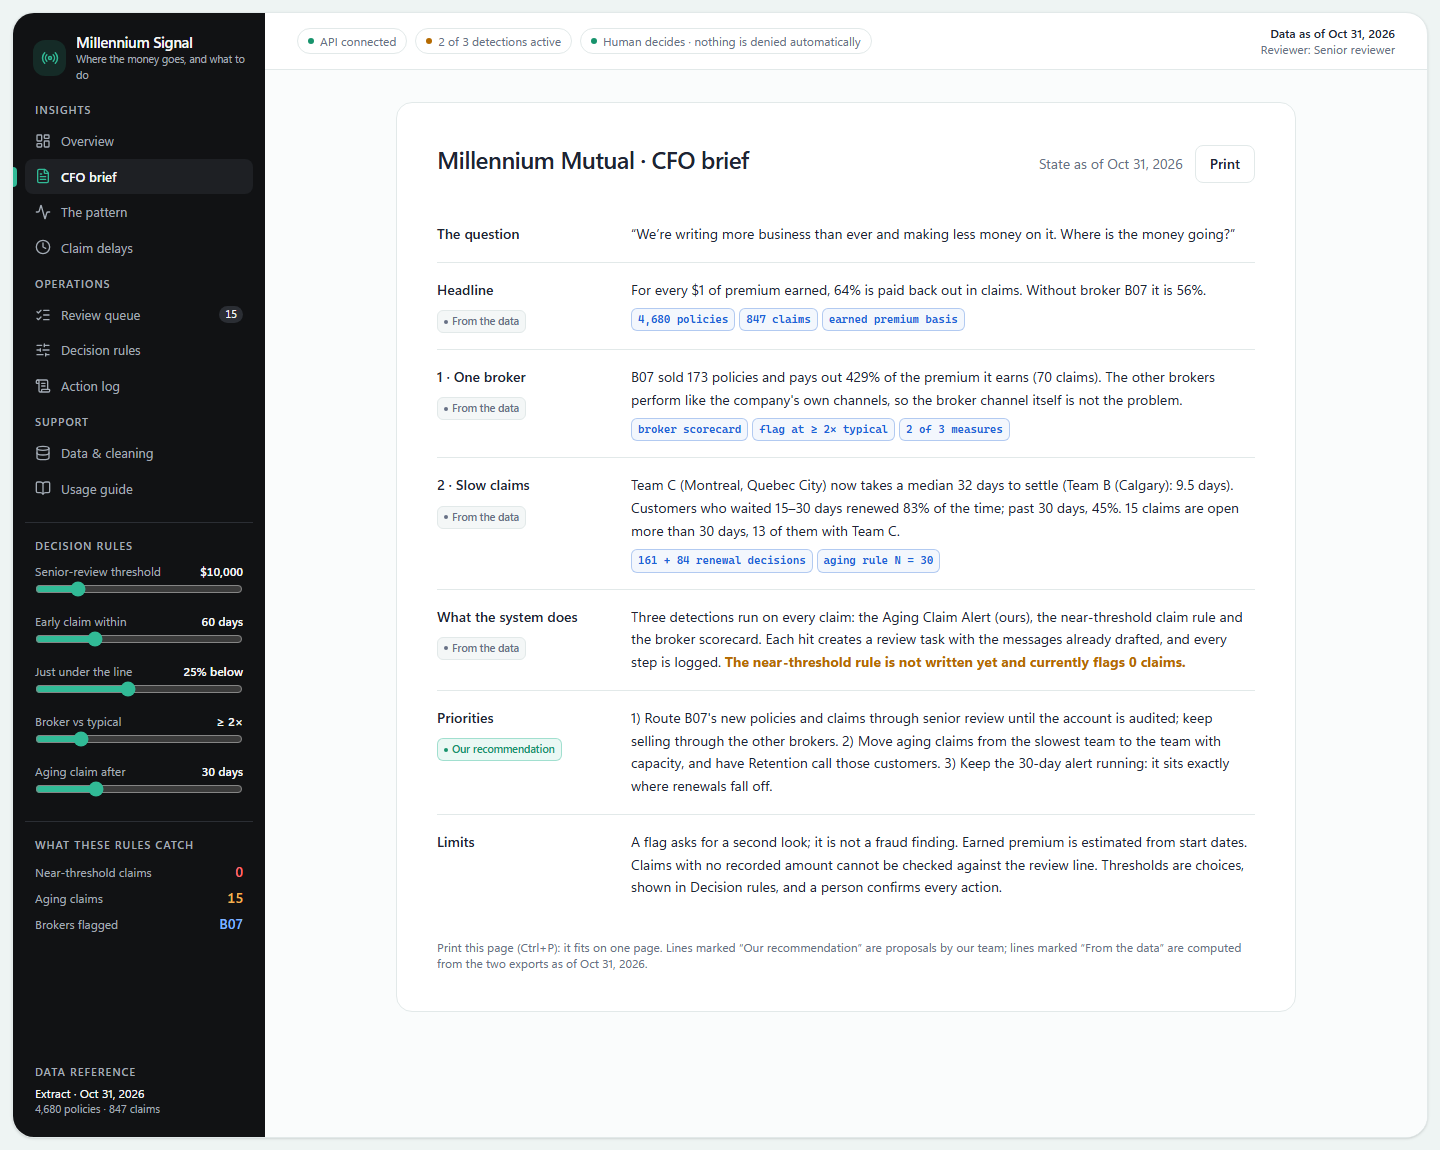
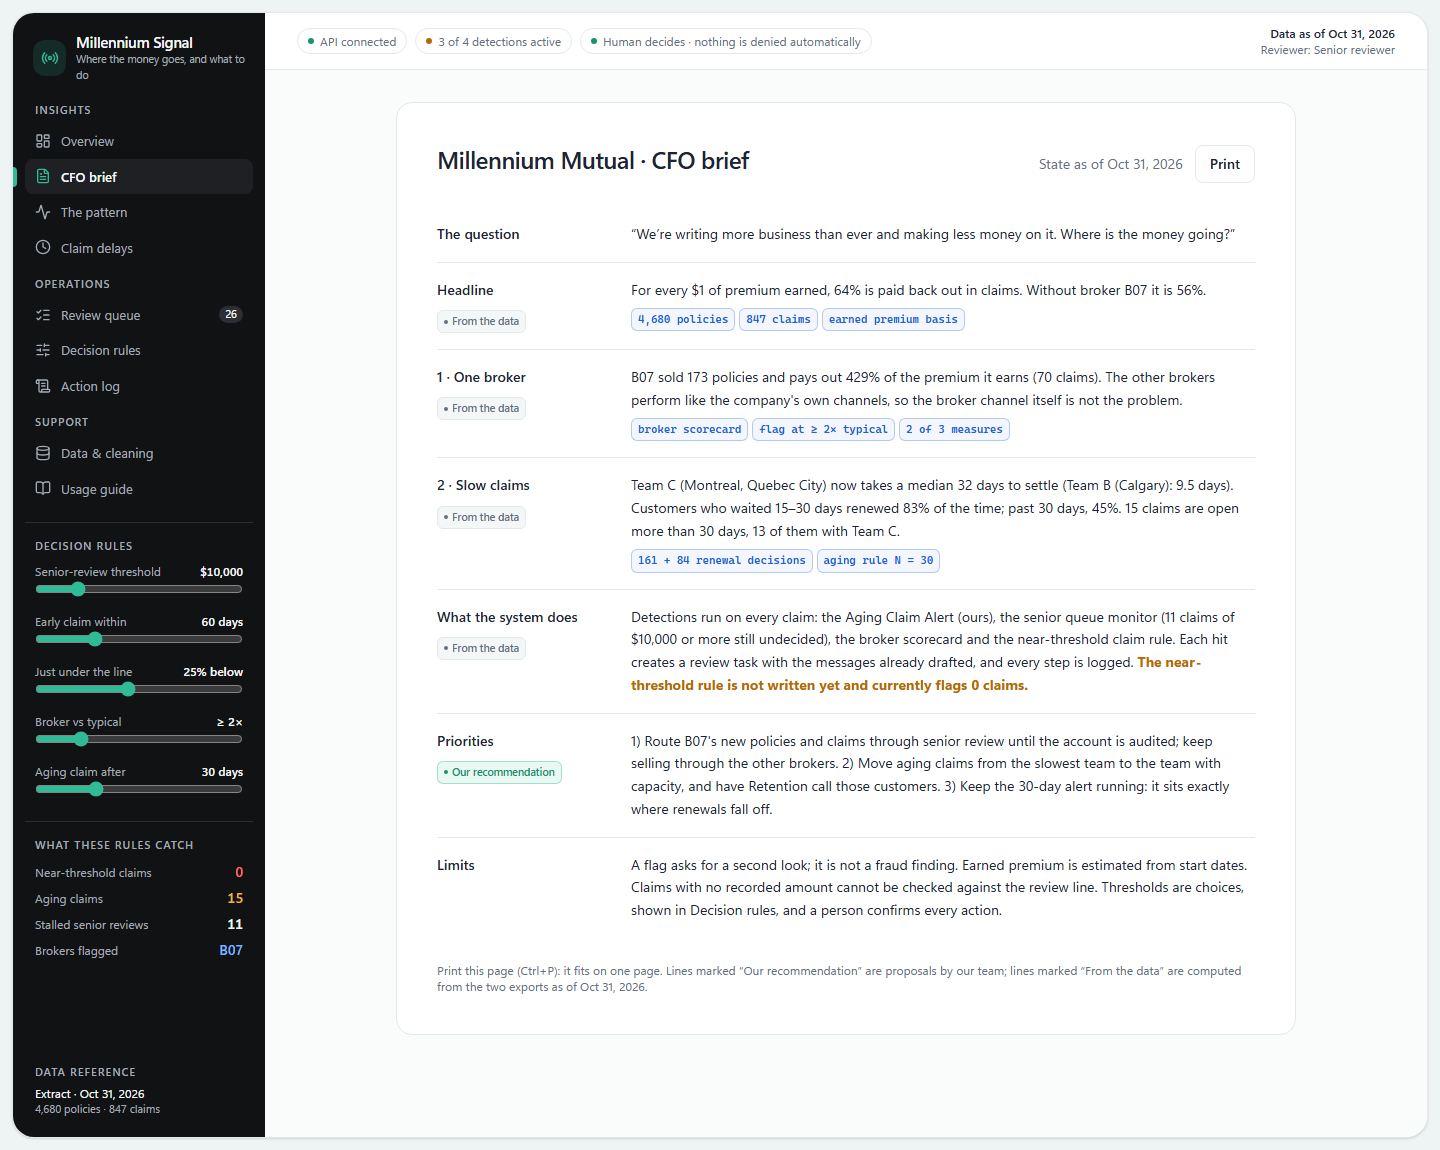
Add senior queue monitor from Wanlin's pipeline; list open conflicts
New detect.senior_queue_stalled (claims >= $10,000 still undecided), queue
tasks with priority, prepared message, log lines. Teammate added to README
and Devpost draft. Conflicts between the two analyses listed in DECISIONS.md.

diff --git a/web/app/queue/page.tsx b/web/app/queue/page.tsx
@@ -8,7 +8,8 @@ import { api, money, useApi, useStore } from "@/lib/store";
 
 type Task = {
   task_id: string;
-  kind: "near_threshold" | "aging";
+  kind: "near_threshold" | "aging" | "senior";
+  priority: "Critical" | "High";
   badge: string;
   claim_id: string;
   policy_id: string;
@@ -32,7 +33,7 @@ type Task = {
 type Queue = {
   tasks: Task[];
   broker_alerts: { task_id: string; broker: string; body: string; decision: string }[];
-  counts: { waiting: number; near_threshold: number; aging: number; decided: number };
+  counts: { waiting: number; near_threshold: number; aging: number; senior: number; critical: number; decided: number };
   intake: {
     policies: { policy_id: string; source: string; start_date: string }[];
     default_policy: string;
@@ -55,6 +56,7 @@ const FILTERS = [
   { key: "all", label: "All" },
   { key: "near_threshold", label: "Near threshold" },
   { key: "aging", label: "Aging claim" },
+  { key: "senior", label: "Senior queue" },
 ] as const;
 
 export default function QueuePage() {
@@ -77,7 +79,7 @@ export default function QueuePage() {
     setMsg(null);
     try {
       await api("/api/decision", { method: "POST", body: JSON.stringify({ task_id, decision, note }) });
-      setMsg(`Recorded “${decision}” for ${task_id.replace(/^(AGING|BROKER):/, "")} and wrote it to the action log.`);
+      setMsg(`Recorded “${decision}” for ${task_id.replace(/^(AGING|BROKER|SENIOR):/, "")} and wrote it to the action log.`);
       setNote("");
       refresh();
     } catch (e) {
@@ -97,10 +99,11 @@ export default function QueuePage() {
       />
       <RuleMissingBanner />
 
-      <div className="grid grid-cols-2 gap-4 xl:grid-cols-4">
-        <Kpi label="Awaiting review" value={String(data.counts.waiting)} />
-        <Kpi label="Near-threshold tasks" value={String(data.counts.near_threshold)} tone="bad" />
+      <div className="grid grid-cols-2 gap-4 xl:grid-cols-5">
+        <Kpi label="Awaiting review" value={String(data.counts.waiting)} note={`${data.counts.critical} critical`} />
         <Kpi label="Aging claim tasks" value={String(data.counts.aging)} tone="warn" />
+        <Kpi label="Senior queue tasks" value={String(data.counts.senior)} />
+        <Kpi label="Near-threshold tasks" value={String(data.counts.near_threshold)} tone="bad" />
         <Kpi label="Decided" value={String(data.counts.decided)} tone="good" />
       </div>
 
@@ -132,9 +135,9 @@ export default function QueuePage() {
               <thead className="sticky top-0 bg-panel2">
                 <tr>
                   <Th>Why</Th>
+                  <Th>Priority</Th>
                   <Th>Claim</Th>
-                  <Th>Sold by</Th>
-                  <Th>Type</Th>
+                  <Th>Team</Th>
                   <Th right>Amount</Th>
                   <Th right>Days open</Th>
                   <Th>Decision</Th>
@@ -155,11 +158,11 @@ export default function QueuePage() {
                     <Td>
                       <Badge kind={t.kind}>{t.badge}</Badge>
                     </Td>
-                    <Td className="whitespace-nowrap font-mono text-[13px]">{t.claim_id}</Td>
-                    <Td className="whitespace-nowrap">
-                      {t.source} · {t.city}
+                    <Td>
+                      <Badge kind={t.priority}>{t.priority}</Badge>
                     </Td>
-                    <Td className="whitespace-nowrap">{t.claim_type}</Td>
+                    <Td className="whitespace-nowrap font-mono text-[13px]">{t.claim_id}</Td>
+                    <Td className="whitespace-nowrap">{t.adjuster_team}</Td>
                     <Td right>{money(t.claim_amount)}</Td>
                     <Td right>{t.days_open ?? "–"}</Td>
                     <Td>
@@ -184,8 +187,12 @@ export default function QueuePage() {
             <div className="space-y-3">
               <div className="flex flex-wrap items-center gap-2">
                 <Badge kind={current.kind}>{current.badge}</Badge>
+                <Badge kind={current.priority}>{current.priority}</Badge>
                 <Badge kind={current.decision === "Awaiting review" ? "wait" : "done"}>{current.decision}</Badge>
               </div>
+              <p className="text-xs text-mute">
+                {current.claim_type} · sold by {current.source} · {current.city} · {current.adjuster_team}
+              </p>
               <div className="text-sm">
                 <div className="mb-1 flex items-center gap-2">
                   <span className="eyebrow">Why</span>

diff --git a/web/components/shell.tsx b/web/components/shell.tsx
@@ -51,7 +51,7 @@ const NAV = [
 export function Shell({ children }: { children: React.ReactNode }) {
   const path = usePathname();
   const { summary, error, saving, rules } = useStore();
-  const active = summary ? 3 - (summary.near_threshold_rule_missing ? 1 : 0) : null;
+  const active = summary ? 4 - (summary.near_threshold_rule_missing ? 1 : 0) : null;
 
   return (
     <div className="shell h-screen p-3">
@@ -87,7 +87,7 @@ export function Shell({ children }: { children: React.ReactNode }) {
                       {label}
                       {href === "/queue" && summary && (
                         <span className="ml-auto rounded-full bg-line px-1.5 text-[11px] tabular-nums text-ink">
-                          {summary.flagged_claims + summary.aging_claims}
+                          {summary.flagged_claims + summary.aging_claims + summary.senior_claims}
                         </span>
                       )}
                     </Link>
@@ -118,6 +118,7 @@ export function Shell({ children }: { children: React.ReactNode }) {
             <dl className="space-y-1.5 px-2.5 text-sm">
               <Row label="Near-threshold claims" value={summary ? String(summary.flagged_claims) : "–"} color="text-accent" />
               <Row label="Aging claims" value={summary ? String(summary.aging_claims) : "–"} color="text-amber" />
+              <Row label="Stalled senior reviews" value={summary ? String(summary.senior_claims) : "–"} color="text-ink" />
               <Row label="Brokers flagged" value={summary ? summary.flagged_brokers.join(", ") || "none" : "–"} color="text-sky" />
             </dl>
           </div>
@@ -136,7 +137,7 @@ export function Shell({ children }: { children: React.ReactNode }) {
             <div className="flex flex-wrap items-center gap-2 text-xs">
               <Pill ok={!error} label={error ? "API not reachable" : "API connected"} />
               {active !== null && (
-                <Pill ok={active === 3} label={`${active} of 3 detections active`} />
+                <Pill ok={active === 4} label={`${active} of 4 detections active`} />
               )}
               <Pill ok label="Human decides · nothing is denied automatically" />
             </div>

diff --git a/web/app/rules/page.tsx b/web/app/rules/page.tsx
@@ -17,7 +17,7 @@ export default function RulesPage() {
       />
       <RuleMissingBanner />
 
-      <div className="grid gap-4 xl:grid-cols-3">
+      <div className="grid gap-4 md:grid-cols-2">
         <Card title="Aging Claim Alert" sub="Written by our team (aging_open_claims)." right={<Badge kind="aging">Aging claim</Badge>}>
           <p className="mb-4 text-sm leading-relaxed">
             Flags a claim that is <b>Open</b> or <b>Under Review</b> more than <b>{rules.aging_days} days</b> after it was
@@ -38,6 +38,15 @@ export default function RulesPage() {
             <RuleSlider name="band" label="Just under the line = within" format={(v) => `${v}% below`} />
           </div>
           <Catch label="Claims caught" value={String(summary.flagged_claims)} color="text-accent" />
+        </Card>
+
+        <Card title="Senior queue monitor" sub="From Wanlin's pipeline (rule R2)." right={<Badge kind="senior">Senior queue</Badge>}>
+          <p className="mb-4 text-sm leading-relaxed">
+            Claims of <b>{money(rules.threshold)}</b> or more already go to senior review. This rule does not re-route
+            them: it lists the ones still <b>Open</b> or <b>Under Review</b>, so a stalled senior review gets a decision.
+          </p>
+          <RuleSlider name="threshold" label="Senior-review threshold" format={(v) => money(v)} />
+          <Catch label={`Stalled senior reviews (${money(summary.senior_value)} recorded)`} value={String(summary.senior_claims)} color="text-ink" />
         </Card>
 
         <Card title="Broker scorecard" sub="Compares each broker with the typical broker." right={<Badge kind="broker">Broker</Badge>}>

diff --git a/web/app/log/page.tsx b/web/app/log/page.tsx
@@ -12,6 +12,7 @@ const FILTERS: { key: string; label: string; test: (r: Row) => boolean }[] = [
   { key: "all", label: "All", test: () => true },
   { key: "human", label: "Human decisions", test: (r) => r.by !== "system" },
   { key: "aging", label: "Aging claim", test: isAging },
+  { key: "senior", label: "Senior queue", test: (r) => /Senior/.test(r.action) || String(r.target).startsWith("SENIOR:") },
   { key: "new", label: "New claims", test: (r) => String(r.target).startsWith("NEW-") },
   { key: "broker", label: "Broker", test: (r) => /Broker|broker/.test(r.action) || String(r.target).startsWith("BROKER:") },
 ];
@@ -90,7 +91,7 @@ export default function LogPage() {
                   <Td className="whitespace-nowrap font-mono text-[12px] text-mute">{r.time}</Td>
                   <Td className={r.by === "system" ? "text-mute" : "text-ok"}>{r.by}</Td>
                   <Td className={tone(r)}>{r.action}</Td>
-                  <Td className="font-mono text-[13px]">{String(r.target).replace(/^(AGING|BROKER):/, "")}</Td>
+                  <Td className="font-mono text-[13px]">{String(r.target).replace(/^(AGING|BROKER|SENIOR):/, "")}</Td>
                   <Td className="text-mute">{r.detail}</Td>
                 </tr>
               ))}

diff --git a/web/app/guide/page.tsx b/web/app/guide/page.tsx
@@ -23,7 +23,7 @@ export default function GuidePage() {
               <b>Data.</b> Two exports are cleaned; every change is listed in <L href="/data">Data &amp; cleaning</L>.
             </li>
             <li>
-              <b>Detect.</b> Three rules run: the Aging Claim Alert, the near-threshold claim rule and the broker scorecard
+              <b>Detect.</b> Four rules run: the Aging Claim Alert, the senior queue monitor, the broker scorecard and the near-threshold claim rule
               (<L href="/pattern">The pattern</L>, <L href="/delays">Claim delays</L>).
             </li>
             <li>
@@ -88,7 +88,7 @@ export default function GuidePage() {
             <li>Messages are drafts on screen and in the log. Nothing is emailed.</li>
             {summary?.near_threshold_rule_missing && (
               <li className="text-amber">
-                The near-threshold rule in detect.py is not written yet, so 2 of 3 detections are active.
+                The near-threshold rule in detect.py is not written yet, so 3 of 4 detections are active.
               </li>
             )}
           </ul>

diff --git a/web/app/brief/page.tsx b/web/app/brief/page.tsx
@@ -77,8 +77,8 @@ export default function BriefPage() {
         </Line>
 
         <Line label="What the system does" tag="fact">
-          Three detections run on every claim: the Aging Claim Alert (ours), the near-threshold claim rule and the broker
-          scorecard. Each hit creates a review task with the messages already drafted, and every step is logged.{" "}
+          Detections run on every claim: the Aging Claim Alert (ours), the senior queue monitor ({summary.senior_claims}{" "}
+          claims of $10,000 or more still undecided), the broker scorecard and the near-threshold claim rule. Each hit creates a review task with the messages already drafted, and every step is logged.{" "}
           {summary.near_threshold_rule_missing ? (
             <b className="text-amber">The near-threshold rule is not written yet and currently flags 0 claims.</b>
           ) : (

diff --git a/web/app/page.tsx b/web/app/page.tsx
@@ -46,10 +46,9 @@ export default function OverviewPage() {
           tone="good"
         />
         <Kpi
-          label="Near-threshold claims flagged"
-          value={String(summary.flagged_claims)}
-          note={`${money(summary.flagged_paid)} paid on them`}
-          tone="bad"
+          label="Stalled senior reviews"
+          value={String(summary.senior_claims)}
+          note={`${money(summary.senior_value)} recorded, still undecided`}
         />
         <Kpi
           label="Aging claims"

diff --git a/web/components/ui.tsx b/web/components/ui.tsx
@@ -87,6 +87,9 @@ export function Badge({ kind, children }: { kind: string; children: React.ReactN
     aging: "bg-amber/15 text-amber border-amber/40",
     near_threshold: "bg-accent/15 text-accent border-accent/40",
     broker: "bg-sky/15 text-sky border-sky/40",
+    senior: "bg-ink/10 text-ink border-ink/30",
+    Critical: "bg-accent text-white border-accent",
+    High: "bg-panel2 text-mute border-line",
     done: "bg-ok/15 text-ok border-ok/40",
     wait: "bg-panel2 text-mute border-line",
   };

diff --git a/web/lib/store.tsx b/web/lib/store.tsx
@@ -27,6 +27,8 @@ export type Summary = {
   flagged_paid: number;
   flagged_brokers: string[];
   aging_claims: number;
+  senior_claims: number;
+  senior_value: number;
   near_threshold_rule_missing: boolean;
   rules: Rules;
 };

diff --git a/api.py b/api.py
@@ -17,7 +17,8 @@ from pydantic import BaseModel, Field
 
 import actions as act
 from clean import EXTRACT_DATE, load_and_clean
-from detect import aging_open_claims, broker_scorecard, flag_reasons, flag_suspicious_claims
+from detect import (aging_open_claims, broker_scorecard, flag_reasons, flag_suspicious_claims,
+                    senior_queue_stalled)
 
 app = FastAPI(title="Millennium Signal API")
 LOCK = threading.Lock()
@@ -126,11 +127,15 @@ def _detect(rules: dict) -> dict:
         new["flagged"] = nf.values
         new["reason"] = np.where(nf, flag_reasons(new, rules["window"], rules["threshold"], band), "")
         new_aging = aging_open_claims(new, rules["aging_days"])
+        new_senior = senior_queue_stalled(new, rules["threshold"])
     else:
         new["flagged"] = False
         new["reason"] = ""
         new_aging = new
-    return dict(claims=claims, flags=flags, scorecard=scorecard, typical=typical,
+        new_senior = new
+    # Detection: senior queue monitor (detect.senior_queue_stalled)
+    senior = senior_queue_stalled(claims, rules["threshold"])
+    return dict(senior=senior, new_senior=new_senior, claims=claims, flags=flags, scorecard=scorecard, typical=typical,
                 flagged_brokers=flagged_brokers, aging=aging, new=new, new_aging=new_aging)
 
 
@@ -183,6 +188,11 @@ def sync_actions(d: dict, rules: dict):
                  f"Suggest reassigning from {r.adjuster_team} to {to_team}")
             once("Note drafted: Retention", r.claim_id,
                  f"Contact customer {r.customer_id} about the delay")
+        for _, r in _stack(d["new_senior"], d["senior"]).iterrows():
+            once("Senior queue: review task created", r.claim_id,
+                 f"${r.claim_amount:,.0f}, {r.status} for {int(r.days_open)} days")
+            once("Message prepared: Senior Claims Review", r.claim_id,
+                 "Ask for a named reviewer and a decision date")
 
 
 def build_tasks(d: dict, rules: dict) -> list[dict]:
@@ -195,7 +205,18 @@ def build_tasks(d: dict, rules: dict) -> list[dict]:
                 "city": r.city, "claim_type": r.claim_type, "claim_amount": num(r.claim_amount, 2),
                 "status": r.status, "adjuster_team": r.adjuster_team,
                 "days_from_start": num(r.days_from_start, 0), "days_open": num(r.days_open, 0),
+                "priority": priority(r),
                 "decision": decisions.get(task_id, "Awaiting review")}
+
+    aging_ids = set(_stack(d["new_aging"], d["aging"]).claim_id)
+    senior_ids = set(_stack(d["new_senior"], d["senior"]).claim_id)
+
+    def priority(r):
+        """Critical when two rules hit the same claim, or it is very old or very large."""
+        both = r.claim_id in aging_ids and r.claim_id in senior_ids
+        big = pd.notna(r.claim_amount) and r.claim_amount >= 20_000
+        old = pd.notna(r.days_open) and r.days_open > 90
+        return "Critical" if both or big or old else "High"
 
     near = _stack(_flagged(d["new"]), _flagged(d["claims"]))
     for _, r in near.sort_values("claim_amount", ascending=False).iterrows():
@@ -219,6 +240,17 @@ def build_tasks(d: dict, rules: dict) -> list[dict]:
                  alerts=[{"to": act.VP_CLAIMS, "body": act.aging_alert(r, rules["aging_days"], to_team)},
                          {"to": act.RETENTION, "body": act.retention_note(r)}])
         tasks.append(t)
+    for _, r in _stack(d["new_senior"], d["senior"]).sort_values("days_open", ascending=False).iterrows():
+        t = base(r, "senior", "Senior queue", f"SENIOR:{r.claim_id}")
+        t.update(reason=f"Recorded amount ${r.claim_amount:,.0f} is at or above the ${rules['threshold']:,.0f} "
+                        f"line, so the company already routes it to senior review; it is still {r.status} "
+                        f"after {int(r.days_open)} days",
+                 action="Assign a named senior reviewer and set a decision date",
+                 evidence=[f"claims.csv · {r.claim_id}", f"claim_amount = {r.claim_amount:,.2f}",
+                           f"status = {r.status}", f"days_open = {int(r.days_open)}"],
+                 options=["Confirm escalation", "Dismiss"],
+                 alerts=[{"to": f"{act.SENIOR_REVIEW} lead", "body": act.senior_alert(r, rules["threshold"])}])
+        tasks.append(t)
     return tasks
 
 
@@ -240,6 +272,8 @@ def summary_of(d: dict, rules: dict) -> dict:
         "flagged_paid": num(flagged.paid_amount_filled.sum(), 2),
         "flagged_brokers": fb,
         "aging_claims": int(len(d["aging"]) + len(d["new_aging"])),
+        "senior_claims": int(len(d["senior"]) + len(d["new_senior"])),
+        "senior_value": num(d["senior"].claim_amount.sum(), 2),
         # True while detect.flag_suspicious_claims is still the unwritten stub.
         "near_threshold_rule_missing": bool(d["flags"].sum() == 0),
         "rules": rules,
@@ -337,6 +371,8 @@ def queue():
         "counts": {"waiting": len(waiting),
                    "near_threshold": sum(t["kind"] == "near_threshold" for t in tasks),
                    "aging": sum(t["kind"] == "aging" for t in tasks),
+                   "senior": sum(t["kind"] == "senior" for t in tasks),
+                   "critical": sum(t["priority"] == "Critical" for t in tasks),
                    "decided": len(tasks) - len(waiting)},
         "intake": {"policies": [{"policy_id": r.policy_id, "source": r.source,
                                  "start_date": f"{r.start_date:%Y-%m-%d}"} for r in opts.itertuples()],
@@ -396,7 +432,9 @@ def new_claim(body: NewClaim):
     if near:
         outcome, message = "flagged", f"Flagged → payment held, routed to {act.SENIOR_REVIEW}. {me.reason}."
     elif body.amount >= rules["threshold"]:
-        outcome, message = "senior", "At or above the threshold → senior review under the existing company rule."
+        outcome = "senior"
+        message = ("At or above the threshold → senior review under the existing company rule. "
+                   "A Senior queue task was created so the review does not stall.")
     else:
         outcome = "clear"
         message = (f"Not flagged by the near-threshold rule → normal adjuster approval. "

diff --git a/detect.py b/detect.py
@@ -82,3 +82,14 @@ def broker_scorecard(policies: pd.DataFrame, claims: pd.DataFrame, flags: pd.Ser
 def aging_open_claims(claims: pd.DataFrame, max_days: int = 30) -> pd.DataFrame:
     open_ = claims[claims.status.isin(["Open", "Under Review"])]
     return open_[open_.days_open > max_days].sort_values("days_open", ascending=False)
+
+
+# ---------------------------------------------------------------------------
+# Senior queue monitor (rule R2 from Wanlin's pipeline, millennium_pipeline.py)
+# ---------------------------------------------------------------------------
+def senior_queue_stalled(claims: pd.DataFrame, threshold: float = 10_000) -> pd.DataFrame:
+    """Claims the company ALREADY routes to senior review (amount >= threshold)
+    that are still Open or Under Review. We do not re-route them: we watch the
+    queue so a stalled senior review gets a decision. Missing amounts are left out."""
+    open_ = claims[claims.status.isin(["Open", "Under Review"])]
+    return open_[open_.claim_amount >= threshold].sort_values("days_open", ascending=False)

diff --git a/actions.py b/actions.py
@@ -115,3 +115,16 @@ def retention_note(row: pd.Series) -> str:
         f"Please call to apologise for the delay, confirm the claim is being moved to a team "
         f"with capacity, and give a named contact. This customer is at risk of not renewing."
     )
+
+
+def senior_alert(row: pd.Series, threshold: float) -> str:
+    return (
+        f"To: {SENIOR_REVIEW} lead\n"
+        f"Subject: Senior-review claim {row.claim_id} still {row.status} after {int(row.days_open)} days\n\n"
+        f"Claim {row.claim_id} ({row.claim_type}, ${row.claim_amount:,.0f}) is at or above the "
+        f"${threshold:,.0f} line, so it was routed to senior review under the existing company rule.\n"
+        f"It was reported {row.reported_date:%b %d, %Y} and has no decision yet.\n"
+        f"Handled by: {row.adjuster_team} · {row.city}\n\n"
+        f"Suggested action: assign a named senior reviewer and set a decision date.\n"
+        f"This is a prepared message shown in the app; nothing has been sent."
+    )
